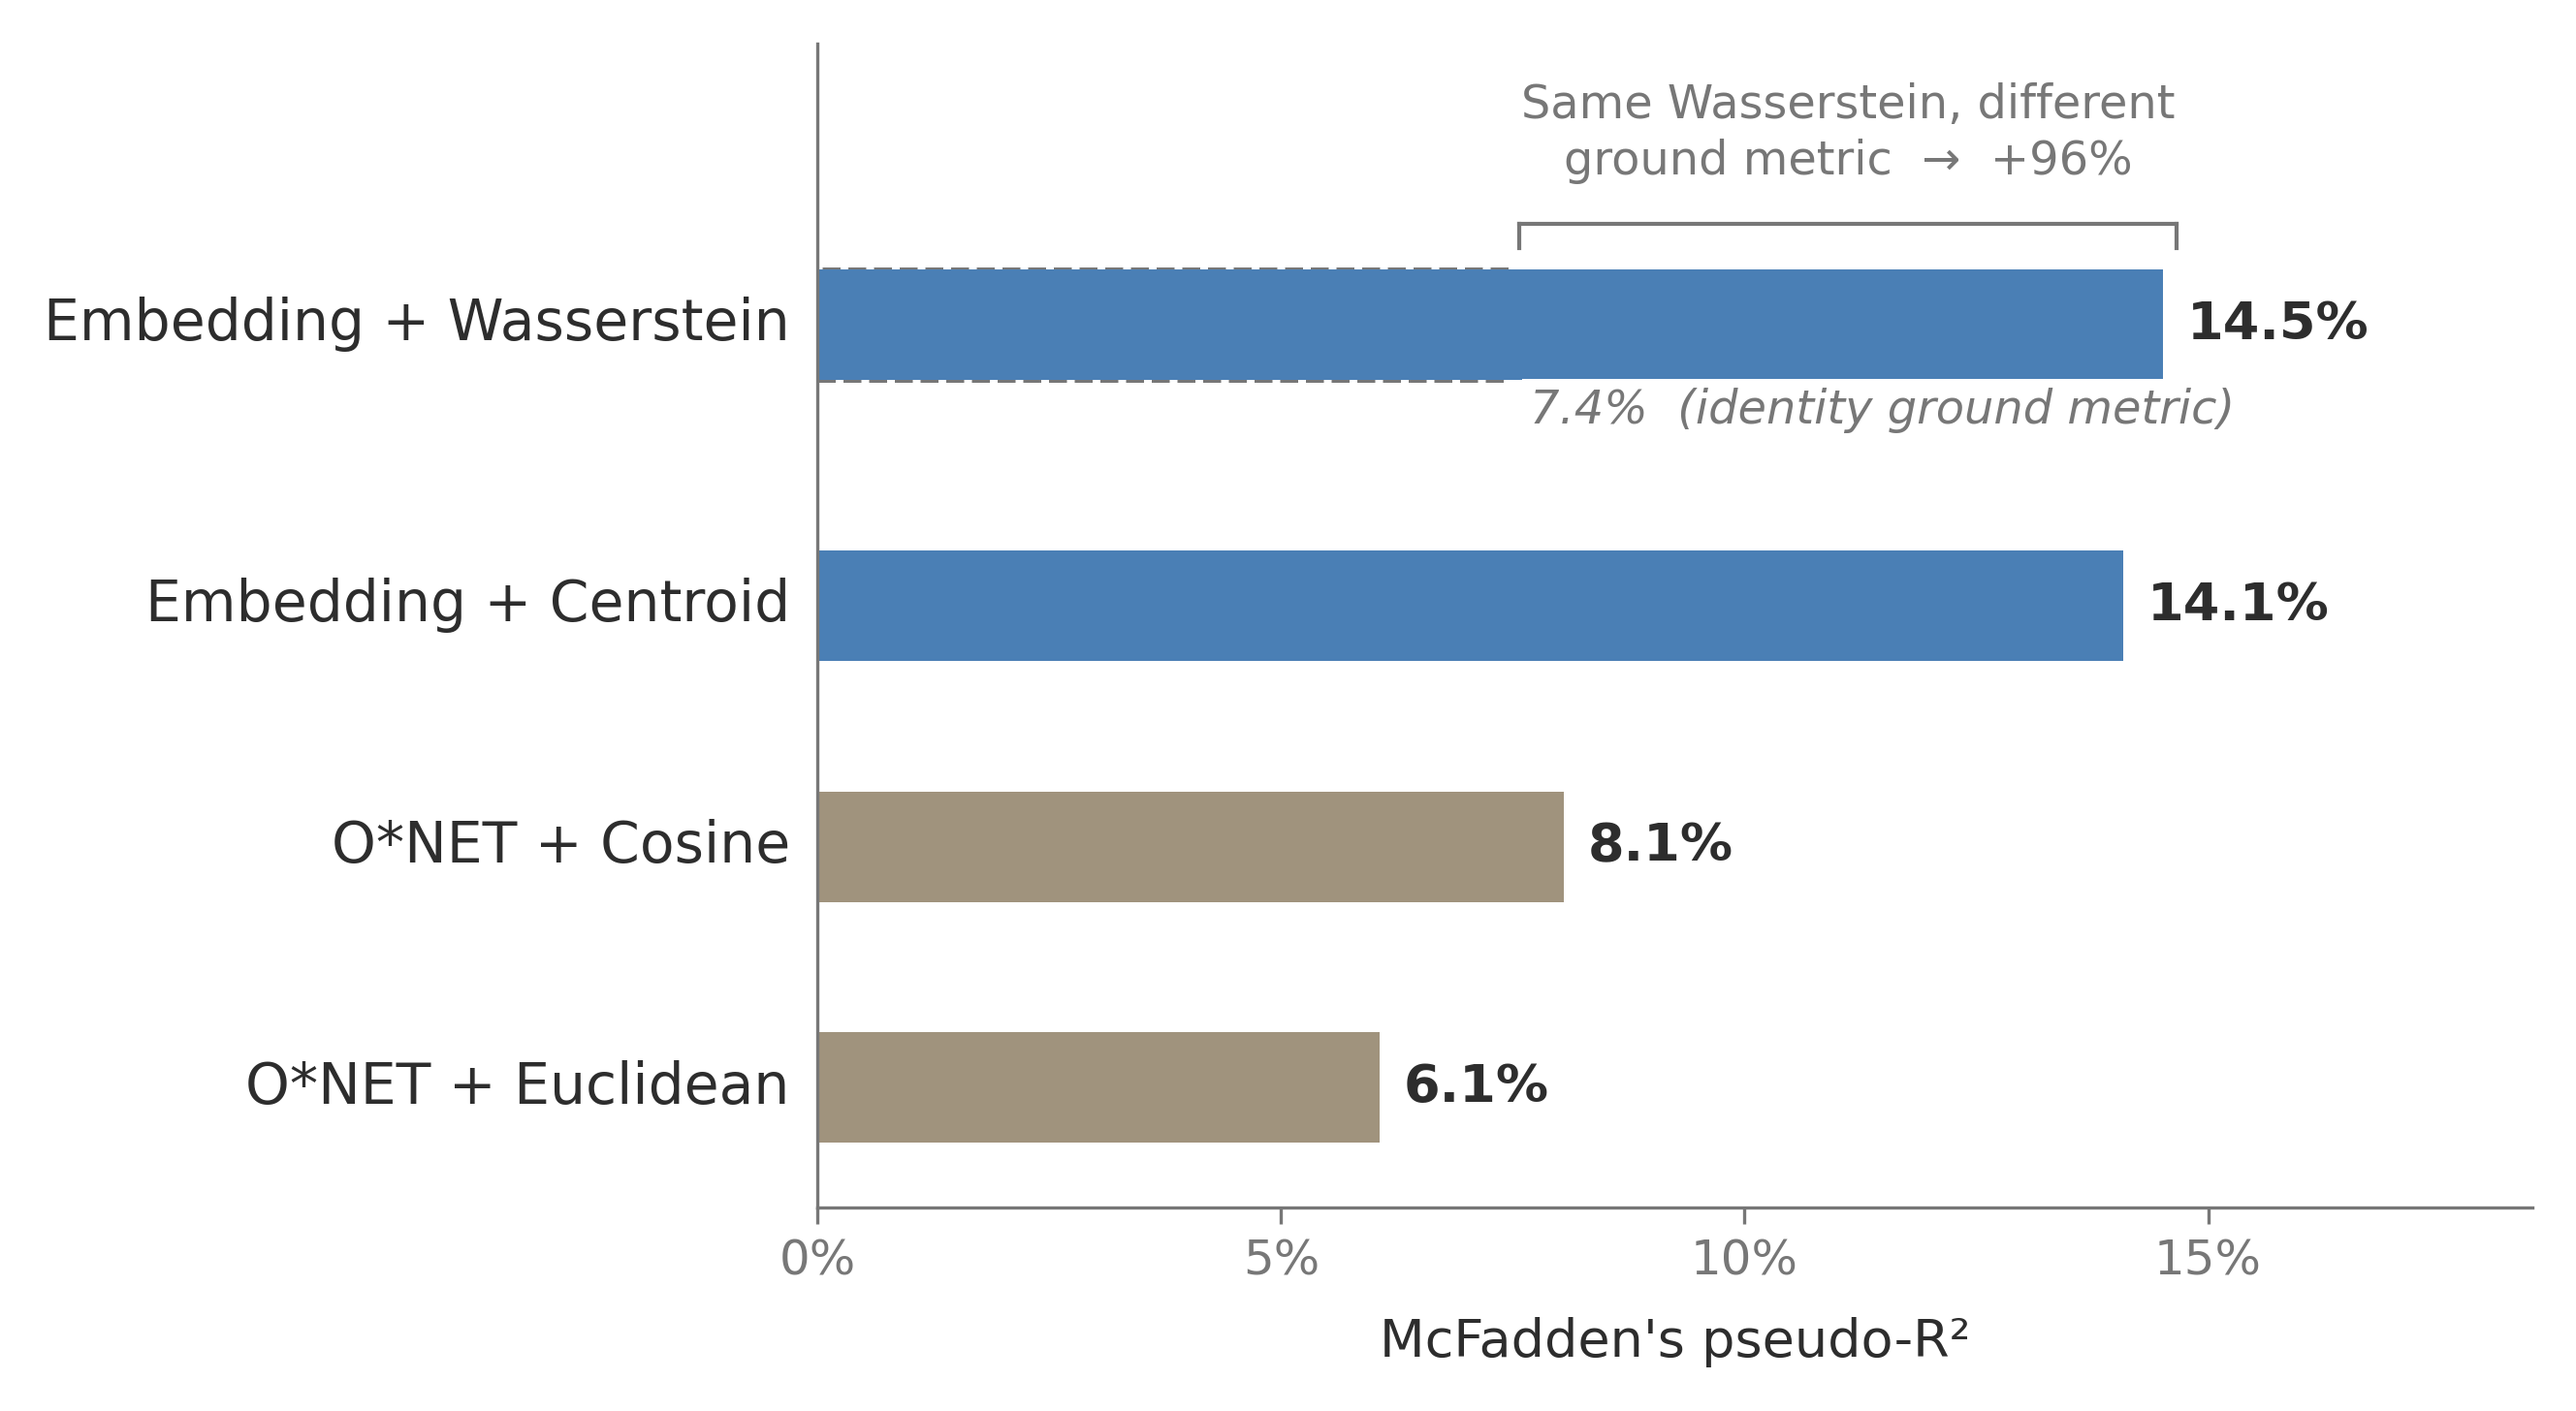
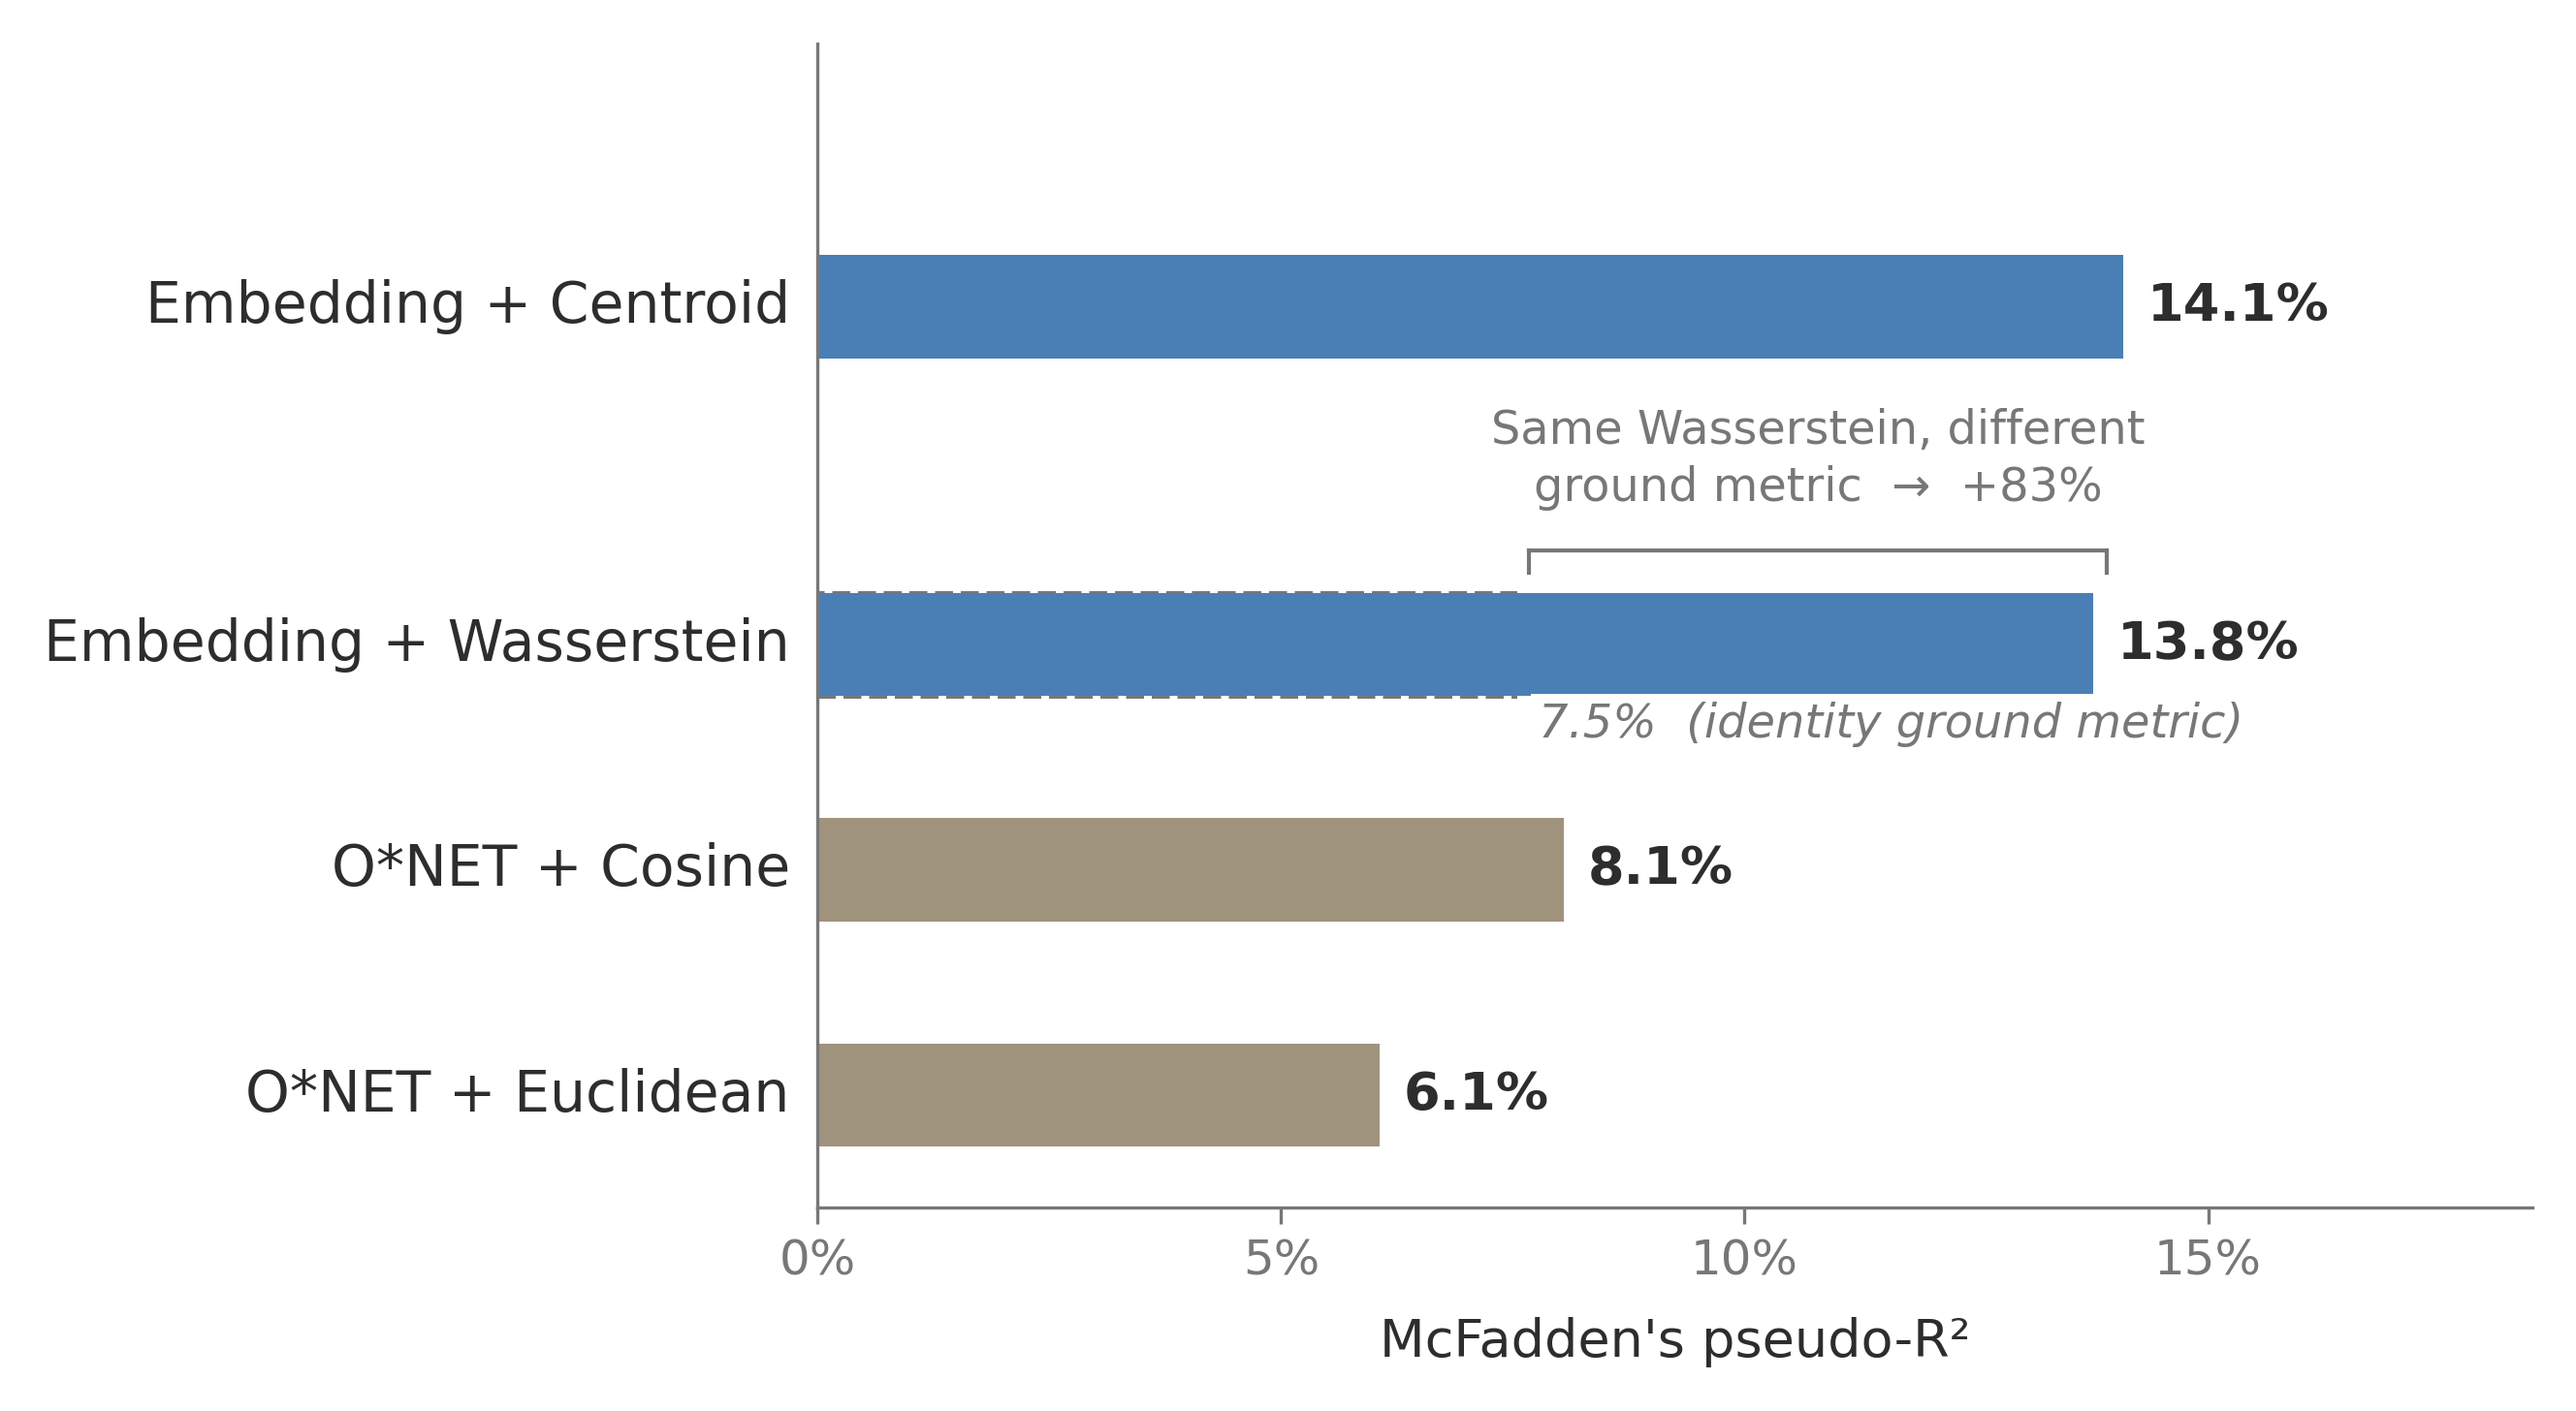
v0.7.8.0: Regenerate fig2 with corrected values, centroid-first ordering
- Centroid (14.1%) now top bar, Wasserstein (13.8%) second
- Ghost bar: 7.5% (was 7.4%), bracket: +83% (was +96%)
- Adjusted bar spacing for clean bracket annotation
- Updated figures/README.md with corrected value ranges

diff --git a/figures/fig2_pseudo_r2.py b/figures/fig2_pseudo_r2.py
@@ -12,15 +12,15 @@ from figures.style import PRIMARY, SECONDARY, DARK, MID
 
 font = setup()
 
-# === Data ===
+# === Data (corrected v0.7.7.0+) ===
 specs = [
-    ("Embedding + Wasserstein", 14.51),
     ("Embedding + Centroid",    14.08),
+    ("Embedding + Wasserstein", 13.76),
     ("O*NET + Cosine",           8.05),
     ("O*NET + Euclidean",        6.06),
 ]
-ground_identity  = 7.42
-ground_embedding = 14.51
+ground_identity  = 7.52
+ground_embedding = 13.76
 
 # Reverse so best is at top (barh draws bottom-up)
 labels = [s[0] for s in specs][::-1]
@@ -29,7 +29,7 @@ colors = [SECONDARY, SECONDARY, PRIMARY, PRIMARY]
 
 # Bar positions — extra spacing between top two bars for ghost bar annotation
 bar_height = 0.55
-positions = [0, 1.2, 2.4, 3.8]  # wider gap before top bar
+positions = [0, 1.2, 2.4, 4.2]  # wider gap before top bar for bracket annotation
 
 # === Figure ===
 fig, ax = plt.subplots(figsize=(9.0, 5.0))
@@ -46,13 +46,13 @@ for pos, label in zip(positions, labels):
 for pos, val in zip(positions, values):
     bar_label(ax, val, pos, val)
 
-# === Ghost bar for identity ground metric ===
-top_y = positions[-1]
-ax.barh(top_y, ground_identity, height=bar_height, color='none',
+# === Ghost bar for identity ground metric (on Wasserstein bar) ===
+wass_y = positions[-2]  # Wasserstein bar is second from top after reversal
+ax.barh(wass_y, ground_identity, height=bar_height, color='none',
         edgecolor=MID, linewidth=1.2, linestyle='--', zorder=1)
 
 # Identity label — below the ghost bar with white background pad
-label_y = top_y - (bar_height / 2) - 0.15
+label_y = wass_y - (bar_height / 2) - 0.15
 ax.annotate(f'{ground_identity:.1f}%  (identity ground metric)',
             xy=(ground_identity, label_y), xycoords='data',
             xytext=(6, 0), textcoords='offset points',
@@ -62,14 +62,14 @@ ax.annotate(f'{ground_identity:.1f}%  (identity ground metric)',
 
 # Bracket annotation using style helper
 pct_improvement = (ground_embedding - ground_identity) / ground_identity * 100
-annotate_bracket(ax, y=top_y + 0.38, x_left=ground_identity + 0.15,
+annotate_bracket(ax, y=wass_y + 0.38, x_left=ground_identity + 0.15,
                  x_right=ground_embedding + 0.15,
                  label=f'Same Wasserstein, different\nground metric  →  +{pct_improvement:.0f}%',
                  offset_y=10, fontsize=11.5)
 
 # === Axes ===
 ax.set_xlim(0, 18.5)
-ax.set_ylim(-0.6, 5.2)
+ax.set_ylim(-0.6, 5.6)
 ax.set_xticks([0, 5, 10, 15])
 ax.set_xticklabels(['0%', '5%', '10%', '15%'], fontsize=12)
 ax.set_yticks([])

diff --git a/figures/README.md b/figures/README.md
@@ -3,7 +3,7 @@
 | File | Target slide | Size | Takeaway | Data source |
 |------|-------------|------|----------|-------------|
 | fig1_ai_exposure.png | Slide 2 (Motivation) | 16:9 (9.0" x 6.5") | AI can theoretically perform 12–97% of tasks across occupation categories — motivates need for distance measures | Eloundou et al. (2023) γ scores |
-| fig2_pseudo_r2.png | Slide 5 (Main Result: Embeddings Dominate) | 16:9 (9.0" x 5.0") | Embedding-based measures achieve 14.1–14.5% pseudo-R², vs 6–8% for O*NET — ~75% relative improvement. Ground metric swap nearly doubles R². | Tables 2 & 3 (hardcoded) |
+| fig2_pseudo_r2.png | Slide 5 (Main Result: Embeddings Dominate) | 16:9 (9.0" x 5.0") | Embedding-based measures achieve 13.8–14.1% pseudo-R², vs 6–8% for O*NET — ~75% relative improvement. Ground metric swap improves R² by over 80%. | Tables 2 & 3 (hardcoded) |
 | fig3_task_scatter.png | Slide 3 (Core Idea: Tasks in Semantic Space) | Half-slide (7.5" x 5.0") | Semantically related tasks cluster together in embedding space — vehicle operation near vehicle operation, quantitative analysis near quantitative analysis | MPNet embeddings of 30 selected DWAs via UMAP |
 
 ## fig1_ai_exposure.png
@@ -33,6 +33,6 @@
 - **Target slide:** 5 (Main Result: Embeddings Dominate)
 - **Size:** 16:9 full-slide (9.0" x 5.0")
 - **Data:** Table 2 (4 specifications), Table 3 (ground metric comparison)
-- **Takeaway:** Embedding-based measures achieve 14.1–14.5% pseudo-R², vs 6–8% for O*NET — a ~75% relative improvement. Ground metric swap nearly doubles R².
+- **Takeaway:** Embedding-based measures achieve 13.8–14.1% pseudo-R², vs 6–8% for O*NET — a ~75% relative improvement. Ground metric swap improves R² by over 80%.
 - **Title:** Omitted (slide title covers it)
 - **Font:** DejaVu Sans (Calibri not available on this system)

diff --git a/LEDGER.md b/LEDGER.md
@@ -1,6 +1,6 @@
 # LEDGER.md — Task-Space Oracle Research State
 
-**Current Version:** 0.7.7.7
+**Current Version:** 0.7.8.0
 **Last Updated:** 2026-03-09
 **Paper Draft:** `paper/main.tex`
 
@@ -759,6 +759,7 @@ Deprecated approaches. Do not retry.
 
 | Version | Date | Changes |
 |---------|------|---------|
+| 0.7.8.0 | 2026-03-09 | Regenerate fig2 with corrected values (13.76%/14.08%), centroid-first ordering, +83% bracket. |
 | 0.7.7.7 | 2026-03-09 | Origin-exclusion robustness test: Δα = +4.2%, not material. Disclosure added to paper. |
 | 0.7.7.6 | 2026-03-09 | Software hygiene — cache ordering guard, hash fix, stale artifact cleanup, canonical tests updated, reproduce_tables.py added. |
 | 0.7.7.5 | 2026-03-09 | Comprehensive consistency pass — 10 issues from adversarial audit (t-stats, p-values, table vintages, holdout wording, improvement percentages, HC1, naming, scale notes). |

diff --git a/SPEC.md b/SPEC.md
@@ -24,7 +24,8 @@
 | Consistency pass | v0.7.7.5 | 10 adversarial audit fixes | ✅ Complete |
 | Software hygiene | v0.7.7.6 | Cache fixes, stale artifacts, tests, reproducibility | ✅ Complete |
 | Origin-exclusion robustness | v0.7.7.7 | Test + disclosure | ✅ Complete |
-| Overleaf sync | v0.7.8.0 | Carry corrections to publishable draft | Pending |
+| Figure update | v0.7.8.0 | Regenerate fig2 with corrected values | ✅ Complete |
+| Overleaf sync | v0.7.8.1 | Carry corrections to publishable draft | Pending |
 
 ---
 
